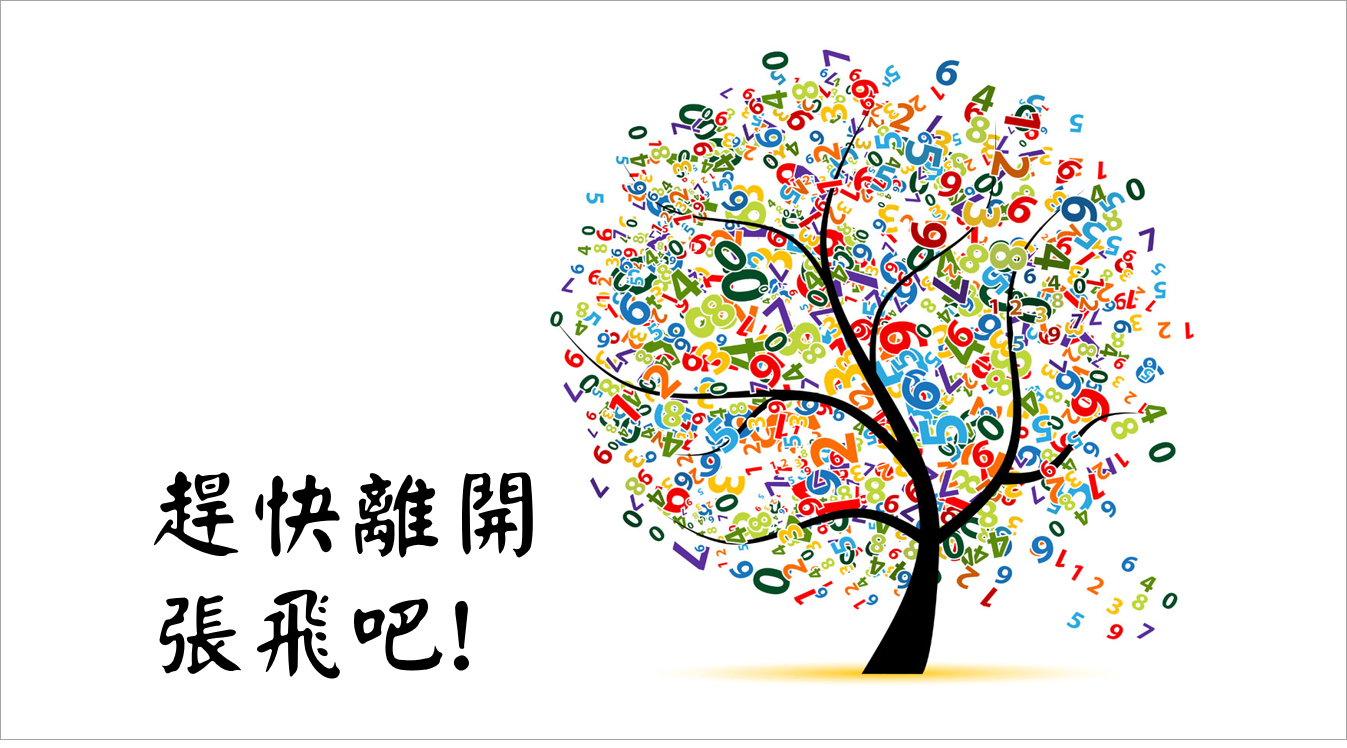
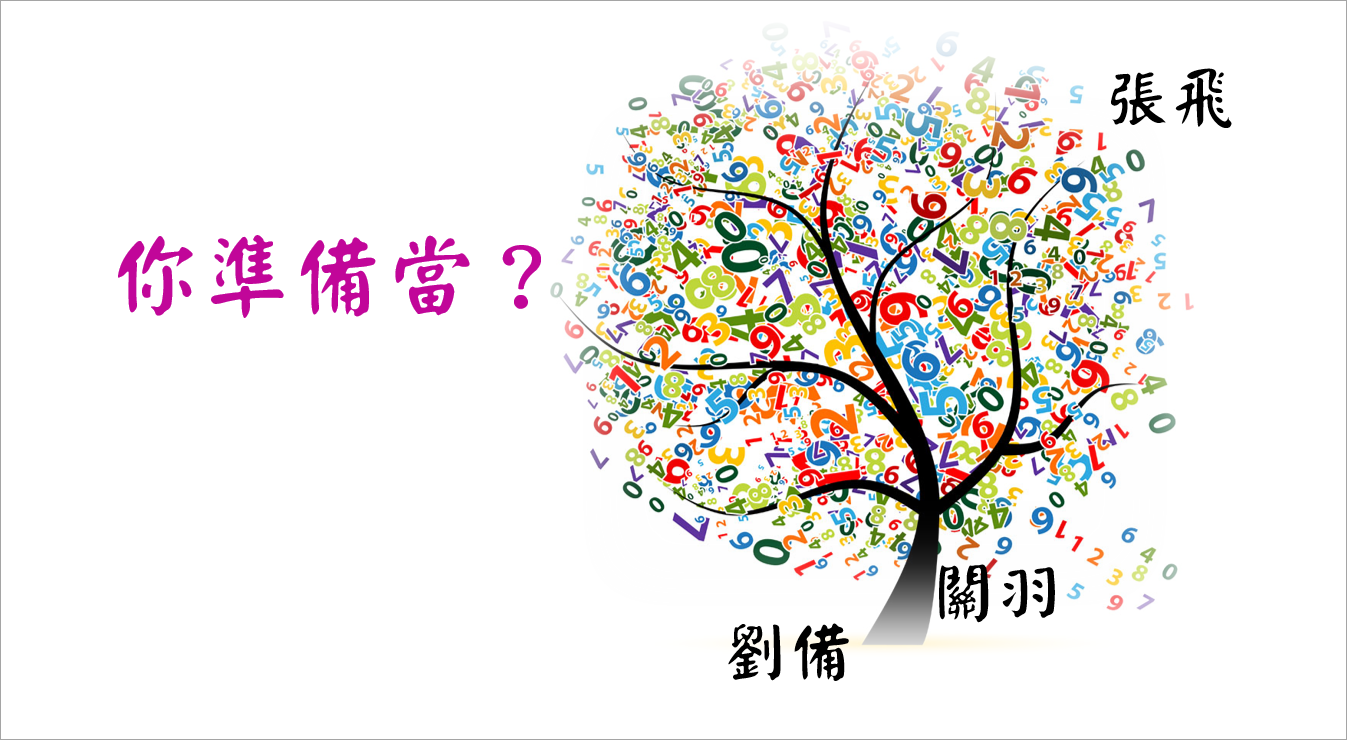
yes 102

diff --git a/ppt.html b/ppt.html
@@ -369,6 +369,8 @@
 			<section>
 				<section data-background-image="img/101.png" data-background-size="90%">
 				</section>
+				<section data-background-image="img/102.png" data-background-size="90%">
+				</section>
 			</section>
 
 
